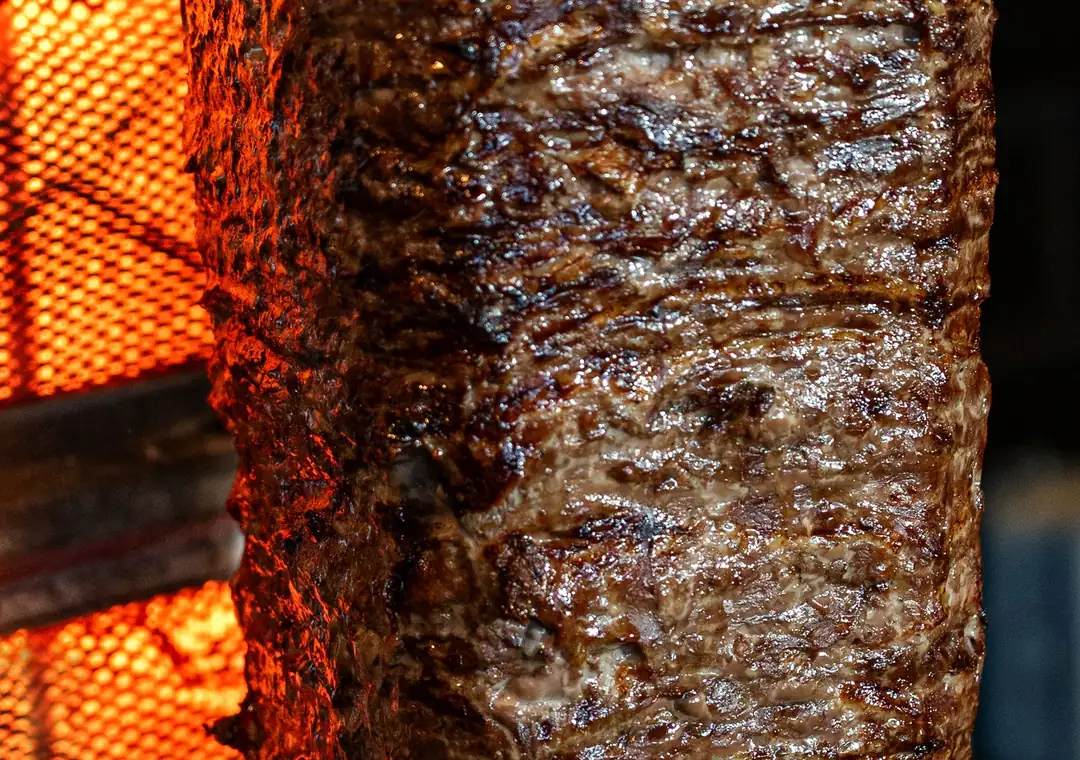
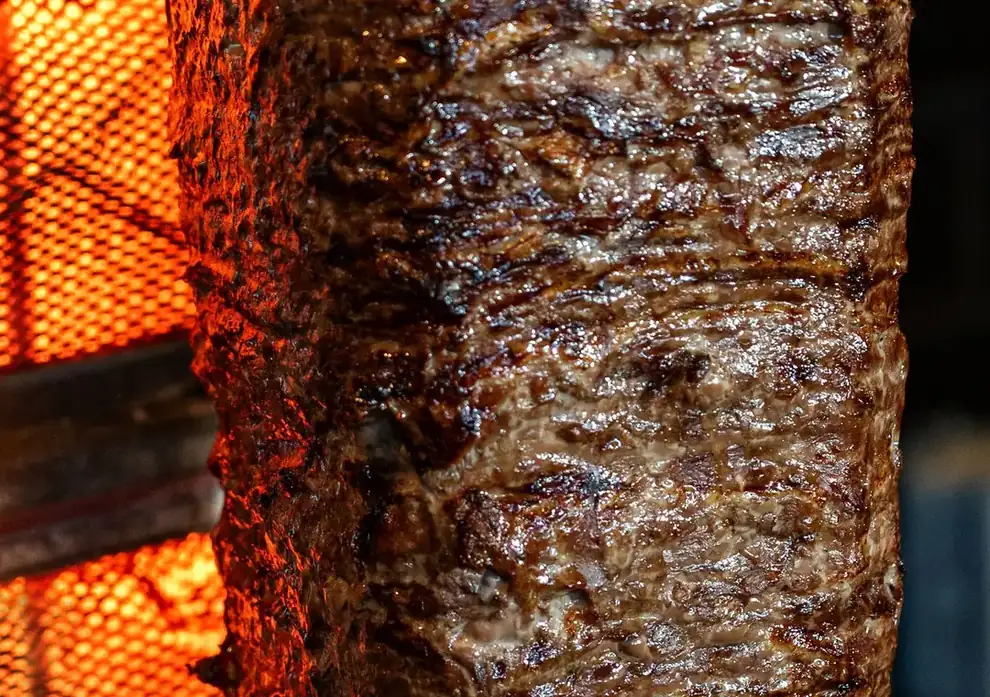
Fix(Galerie): verzerrte Bilder auf Mobilgeräten + Perf: Fonts selbst hosten
- Galerie: height:auto ergänzt – das height-Attribut hatte aspect-ratio
  ausgehebelt, Fotos wurden als schmale 600px-Streifen beschnitten
- Google Fonts durch selbst gehostete, subsettete WOFF2 ersetzt
  (identisches Schriftbild, Latin+Deutsch+Türkisch, 10 Dateien à 10–16 KB);
  Laden startet nach dem First Paint → FCP/LCP-Pfad frei
- Hero-WebP 1080px/148 KB → 990px/120 KB (exakte Mobil-Anzeigegröße)
- Halal-Badge auf 144×144 zugeschnitten (identischer Cover-Ausschnitt), 8→6 KB
- Marquee-Init auf window.load verschoben (Forced Reflow vor Paint entfällt)

Design und Schriftbild unverändert.

diff --git a/index.html b/index.html
@@ -38,11 +38,16 @@
 <!-- LCP-Hero-Bild so früh wie möglich anfordern -->
 <link rel="preload" as="image" fetchpriority="high" href="assets_diyarbakir/hero.webp" />
 
-<!-- Schriften nicht render-blockierend laden (finales Schriftbild identisch, display=swap) -->
-<link rel="preconnect" href="https://fonts.googleapis.com" />
-<link rel="preconnect" href="https://fonts.gstatic.com" crossorigin />
-<link rel="preload" as="style" href="https://fonts.googleapis.com/css2?family=Cinzel:wght@400;500;600;700&amp;family=Cormorant+Garamond:ital,wght@0,400;0,500;0,600;0,700;1,400;1,500;1,600&amp;display=swap" onload="this.onload=null;this.rel='stylesheet'" />
-<noscript><link rel="stylesheet" href="https://fonts.googleapis.com/css2?family=Cinzel:wght@400;500;600;700&amp;family=Cormorant+Garamond:ital,wght@0,400;0,500;0,600;0,700;1,400;1,500;1,600&amp;display=swap" /></noscript>
+<!-- Schriften: selbst gehostet & subsettet (identisches Schriftbild, display=swap).
+     Laden startet erst nach dem First Paint, damit sie den LCP/FCP-Pfad nicht blockieren. -->
+<script>
+addEventListener('load', function(){
+  var l = document.createElement('link');
+  l.rel = 'stylesheet'; l.href = 'assets_diyarbakir/fonts/fonts.css';
+  document.head.appendChild(l);
+});
+</script>
+<noscript><link rel="stylesheet" href="assets_diyarbakir/fonts/fonts.css" /></noscript>
 
 <style>
 /* =========================================================================
@@ -295,7 +300,9 @@ body.ready .bg{ opacity:1; }
 .gtile{ position:relative; border:1px solid var(--gold); padding:5px; }
 .gtile::after{ content:""; position:absolute; inset:2px; border:1px solid var(--line-soft); pointer-events:none; }
 .gtile.wide{ grid-column:span 2; }
-.gtile img{ width:100%; aspect-ratio:1/1; object-fit:cover; display:block; }
+/* height:auto ist Pflicht: sonst gewinnt das height-Attribut (600px) über
+   aspect-ratio und die Fotos werden zu schmalen Hochkant-Streifen beschnitten. */
+.gtile img{ width:100%; height:auto; aspect-ratio:1/1; object-fit:cover; display:block; }
 .gtile.wide img{ aspect-ratio:2/1; }
 
 /* =========================================================================
@@ -758,8 +765,9 @@ body.ready .bg{ opacity:1; }
     if (tx) tx.textContent = open ? 'Geöffnet' : 'Geschlossen';
   })();
 
-  /* Laufband scroll-gesteuert */
-  (function(){
+  /* Laufband scroll-gesteuert – Init erst nach dem Load, damit die
+     Layout-Messung (scrollWidth) den ersten Paint nicht blockiert. */
+  window.addEventListener('load', function(){
     const t = document.querySelector('.marquee__track');
     if (!t || REDUCE) return;
     t.innerHTML += t.innerHTML;
@@ -774,7 +782,7 @@ body.ready .bg{ opacity:1; }
     window.addEventListener('scroll', () => { if (!ticking){ ticking = true; requestAnimationFrame(render); } }, { passive:true });
     window.addEventListener('resize', () => { half = t.scrollWidth / 2; render(); });
     render();
-  })();
+  });
 
   /* Zähl-Animation */
   function countUp(el){

diff --git a/assets_diyarbakir/fonts/fonts.css b/assets_diyarbakir/fonts/fonts.css
@@ -1,0 +1,10 @@
+@font-face{font-family:'Cinzel';font-style:normal;font-weight:400;font-display:swap;src:url(cinzel-400.woff2) format('woff2');}
+@font-face{font-family:'Cinzel';font-style:normal;font-weight:500;font-display:swap;src:url(cinzel-500.woff2) format('woff2');}
+@font-face{font-family:'Cinzel';font-style:normal;font-weight:600;font-display:swap;src:url(cinzel-600.woff2) format('woff2');}
+@font-face{font-family:'Cinzel';font-style:normal;font-weight:700;font-display:swap;src:url(cinzel-700.woff2) format('woff2');}
+@font-face{font-family:'Cormorant Garamond';font-style:italic;font-weight:400;font-display:swap;src:url(cormorant-i-400.woff2) format('woff2');}
+@font-face{font-family:'Cormorant Garamond';font-style:italic;font-weight:500;font-display:swap;src:url(cormorant-i-500.woff2) format('woff2');}
+@font-face{font-family:'Cormorant Garamond';font-style:normal;font-weight:400;font-display:swap;src:url(cormorant-400.woff2) format('woff2');}
+@font-face{font-family:'Cormorant Garamond';font-style:normal;font-weight:500;font-display:swap;src:url(cormorant-500.woff2) format('woff2');}
+@font-face{font-family:'Cormorant Garamond';font-style:normal;font-weight:600;font-display:swap;src:url(cormorant-600.woff2) format('woff2');}
+@font-face{font-family:'Cormorant Garamond';font-style:normal;font-weight:700;font-display:swap;src:url(cormorant-700.woff2) format('woff2');}